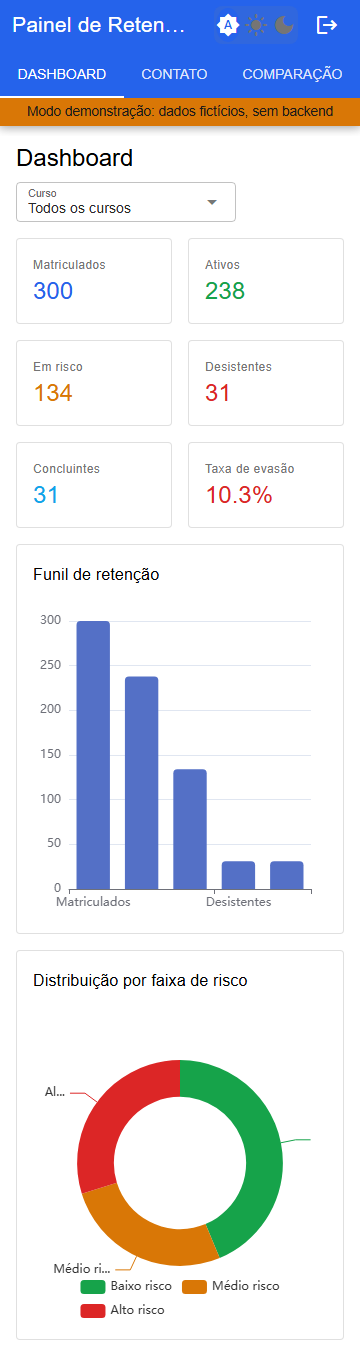
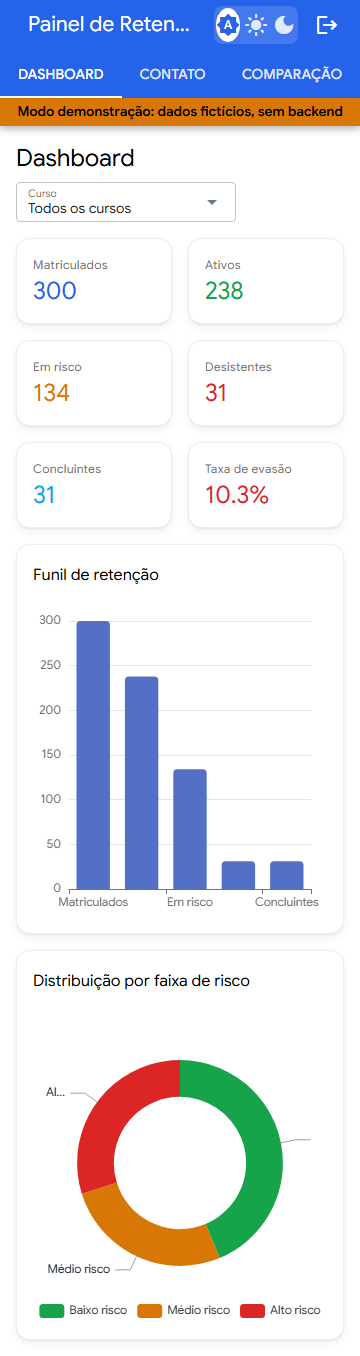
docs: document Google Sans decision and refresh screenshots

diff --git a/README.md b/README.md
@@ -59,6 +59,18 @@ soltos do Moodle, o que é lento e inconsistente entre turmas.
   `python-jose` está com manutenção mais lenta; `PyJWT` é a biblioteca
   citada nos exemplos oficiais de autenticação JWT do FastAPI.
 
+## Decisões técnicas do frontend
+
+- **Tipografia**: [Google Sans](https://fonts.google.com/specimen/Google+Sans),
+  liberada pelo Google sob SIL Open Font License em dezembro de 2025 —
+  antes disso a fonte era proprietária, então essa escolha só foi possível
+  a partir dessa liberação. A fonte é auto-hospedada via
+  [`@fontsource/google-sans`](https://www.npmjs.com/package/@fontsource/google-sans)
+  (sem requisições ao Google Fonts em tempo de execução), carregando
+  apenas os pesos 400/500/600/700 do subset latin, que é o que a interface
+  usa. Aplicada globalmente (variável `$typography-font-family` do Quasar
+  e `--font-family-base` em CSS) e também nos textos do ECharts.
+
 ## Arquitetura
 
 ```mermaid
@@ -321,6 +333,14 @@ npm ci
 npm run lint
 npx vue-tsc -b
 npm run test
+```
+
+Testes de ponta a ponta (Playwright) do fluxo de login/logout, separados
+dos screenshots:
+
+```bash
+npm run test:e2e:demo   # contra o build em modo demonstração
+npm run test:e2e:api    # contra a API real (precisa do docker compose up)
 ```
 
 ## Modo demonstração vs. API real
